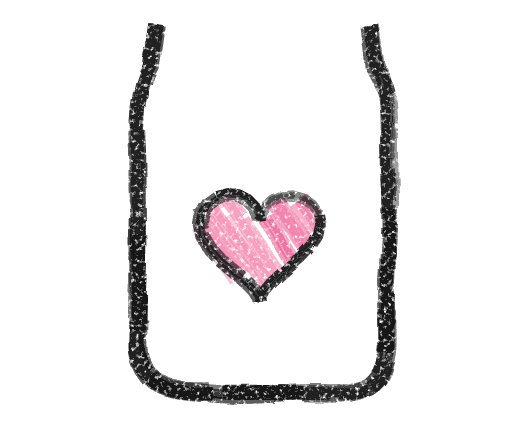
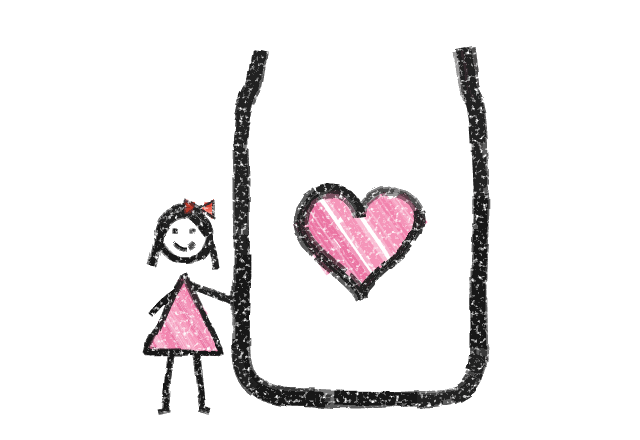
app: restore the step pictures, keep the jar beside the headline
How it works had swapped in other drawings. Bring back the earlier
ones: the girl beside her jar, relatives putting coins in, and the
girl grown up with a fuller jar. They fill each card at their own
proportions, inside the frame. make_art.py no longer draws step art,
so a re-run can't overwrite them.

On phones the header links were hidden with nothing in their place,
and the figure and jar dropped below the buttons, out of sight of the
headline. Add a Menu button that opens the same links, and keep the
headline and the figure and jar side by side at every width, scaled
down; the three longest role words shrink to fit their column.

Remove the row of role buttons under the hero.

Refs #24

Changed region(s): [[0.2154, 0.0295, 0.7692, 0.9455]]

diff --git a/app/landing/landing.css b/app/landing/landing.css
@@ -46,9 +46,9 @@ a { color: inherit; }
   0%, 55% { transform: translateX(-45%) rotate(-12deg) rotateY(0deg); }
   100% { transform: translateX(-45%) rotate(-12deg) rotateY(360deg); }
 }
-.nav nav { display: flex; gap: 1.4rem; font-weight: 500; font-size: .98rem; }
-.nav nav a { text-decoration: none; padding: .25rem 0; background: linear-gradient(var(--yellow), var(--yellow)) 0 100% / 0 .4em no-repeat; transition: background-size .2s; }
-.nav nav a:hover { background-size: 100% .4em; }
+.nav .nav-links { display: flex; gap: 1.4rem; font-weight: 500; font-size: .98rem; }
+.nav .nav-links a { text-decoration: none; padding: .25rem 0; background: linear-gradient(var(--yellow), var(--yellow)) 0 100% / 0 .4em no-repeat; transition: background-size .2s; }
+.nav .nav-links a:hover { background-size: 100% .4em; }
 
 /* ───────── hero ───────── */
 .hero { position: relative; max-width: var(--wrap); margin: 0 auto; padding: 1.5rem 1.25rem 3.5rem; display: grid; grid-template-columns: 1.05fr .95fr; gap: 1rem 2rem; align-items: center; }
@@ -92,11 +92,6 @@ h1 .role-word.is-in { opacity: 0; transform: translateY(.22em) rotate(2deg); tra
 @keyframes pop { 0% { transform: rotate(-12deg) scale(.7); opacity: .2; } 60% { transform: rotate(-3deg) scale(1.05); opacity: 1; } 100% { transform: rotate(-5deg) scale(1); } }
 .card-tag { position: absolute; left: 50%; bottom: -7%; transform: translateX(-50%) rotate(2deg); margin: 0; white-space: nowrap; font-family: var(--display); font-weight: 700; letter-spacing: -.01em; font-size: clamp(1rem, 2.2vw, 1.3rem); padding: .2em .7em .15em; background: url("assets/swatch-yellow.png") center / 100% 100% no-repeat; }
 
-/* little role picker (also the way to drive it with reduced motion) */
-.roles { grid-column: 1 / -1; list-style: none; margin: .5rem 0 0; padding: 0; display: flex; flex-wrap: wrap; justify-content: center; gap: .5rem .6rem; position: relative; z-index: 2; }
-.roles button { font: 500 .95rem/1 var(--body); background: #fff; color: var(--ink); border: 2px solid var(--ink); border-radius: 999px; padding: .5rem .9rem; cursor: pointer; transition: background .15s, transform .12s; }
-.roles button:hover { transform: translateY(-2px); }
-.roles button[aria-pressed="true"] { background: var(--ink); color: #fff; }
 
 /* confetti doodles */
 .doodle { position: absolute; z-index: 0; pointer-events: none; }
@@ -120,7 +115,7 @@ h1 .role-word.is-in { opacity: 0; transform: translateY(.22em) rotate(2deg); tra
 .step-2::before { border-image-source: url("assets/frame-3.png"); transform: rotate(1deg); }
 .step-3::before { border-image-source: url("assets/frame-2.png"); transform: rotate(-.8deg); }
 .step > * { position: relative; z-index: 1; }
-.step-art { width: 70%; margin: 0 auto .6rem; }
+.step-art { width: 100%; height: auto; margin: 0 0 .8rem; }
 .step h3 { font-family: var(--display); font-weight: 900; letter-spacing: -.025em; font-size: 1.45rem; line-height: 1.15; margin: 0 0 .5rem; }
 .step .num { display: inline-block; min-width: 1.5em; text-align: center; margin-right: .2em; background: url("assets/swatch-yellow.png") center / 100% 100% no-repeat; }
 .step p { margin: 0; }
@@ -177,22 +172,38 @@ h1 .role-word.is-in { opacity: 0; transform: translateY(.22em) rotate(2deg); tra
 .story-transcript summary { cursor: pointer; padding: 1rem 0; font-weight: 700; }
 .story-transcript ol { margin: 0 0 1rem; padding-left: 1.3rem; display: grid; gap: .55rem; }
 
+/* phone menu (shown below 900px, where the header links are hidden) */
+.menu { display: none; position: relative; }
+.menu summary { list-style: none; cursor: pointer; font: 700 .95rem/1 var(--body); padding: .7rem 1rem; border: 2px solid var(--ink); border-radius: 12px 14px 11px 15px / 14px 11px 15px 12px; background: #fff; box-shadow: 3px 3px 0 var(--lilac); -webkit-tap-highlight-color: transparent; }
+.menu summary::-webkit-details-marker { display: none; }
+.menu summary::after { content: ""; display: inline-block; width: .45rem; height: .45rem; margin-left: .5rem; border-right: 2px solid currentColor; border-bottom: 2px solid currentColor; transform: translateY(-.15rem) rotate(45deg); transition: transform .16s ease; }
+.menu[open] summary::after { transform: translateY(.05rem) rotate(-135deg); }
+.menu-panel { position: absolute; right: 0; top: calc(100% + .5rem); z-index: 40; display: grid; min-width: 14.5rem; padding: .4rem; background: #fff; border: 2px solid var(--ink); border-radius: 14px; box-shadow: 5px 5px 0 var(--orange); }
+.menu-panel a { display: block; padding: .75rem .8rem; border-radius: 9px; font-weight: 500; text-decoration: none; }
+.menu-panel a:hover, .menu-panel a:focus-visible { background: #f6f3ec; }
+.menu-panel a[aria-current="page"] { font-weight: 700; }
+
 /* ───────── small screens ───────── */
 @media (max-width: 900px) {
   .hero { grid-template-columns: 1fr; padding-top: .5rem; }
-  /* headline, pitch and buttons on the first screen, then the figure and jar */
+  /* The figure and jar stay beside the headline at every width, scaled down to fit:
+     kicker across the top, headline and stage side by side, then the pitch and buttons. */
+  .hero { grid-template-columns: minmax(0, 1.25fr) minmax(0, 1fr); column-gap: .75rem; }
   .hero-copy { display: contents; }
-  .kicker { order: 1; justify-self: start; }
-  h1 { order: 2; margin-bottom: .4rem; }
-  .lede { order: 3; margin-top: .6rem; }
-  .cta { order: 4; }
-  .testnet { order: 5; justify-self: start; }
-  .stage { order: 6; max-width: 400px; margin-top: 1.4rem; }
-  .roles { order: 7; }
-  .nav nav { display: none; }
+  .kicker { order: 1; grid-column: 1 / -1; justify-self: start; }
+  h1 { order: 2; grid-column: 1; margin: 0; font-size: clamp(1.9rem, calc((100vw - 52px) * .12), 4.4rem); }
+  /* the three longest words ("granddaughter", "little brother", "little sister") shrink to fit the column */
+  h1 .role-word.is-long { font-size: .7em; }
+  .stage { order: 3; grid-column: 2; max-width: none; margin: 0; }
+  .card-tag { font-size: clamp(.62rem, 2.6vw, 1rem); }
+  .lede { order: 4; grid-column: 1 / -1; margin-top: 1.2rem; }
+  .cta { order: 5; grid-column: 1 / -1; }
+  .testnet { order: 6; grid-column: 1 / -1; justify-self: start; }
+  .nav .nav-links { display: none; }
+  .menu { display: block; }
   .steps { grid-template-columns: 1fr; max-width: 460px; margin-inline: auto; }
   .trust-grid { grid-template-columns: 1fr; gap: 1.8rem; }
-  .d-star, .d-dots { display: none; }
+  .d-star, .d-dots, .d-heart { display: none; }
   .swatch-lilac { display: none; }
 }
 @media (max-width: 600px) {
@@ -211,7 +222,7 @@ h1 .role-word.is-in { opacity: 0; transform: translateY(.22em) rotate(2deg); tra
 
 @media (prefers-reduced-motion: reduce) {
   html { scroll-behavior: auto; }
-  h1 .role-word, .btn, .roles button, .pin { transition: none; }
+  h1 .role-word, .btn, .pin, .menu summary::after { transition: none; }
   .wordmark .j img { animation: none; }
   .card.is-popping { animation: none; }
 }

diff --git a/app/landing/index.html b/app/landing/index.html
@@ -36,13 +36,25 @@
       <!-- The README logo's wordmark: "sats jar" with the j dotted by a coin (a dotless j plus the coin). -->
       <span class="wordmark grainy" aria-hidden="true">sats <span class="j">&#x237;<img src="assets/coin-2.png" alt="" width="16" height="16"></span>ar</span>
     </a>
-    <nav aria-label="Main">
+    <nav class="nav-links" aria-label="Main">
       <a href="#how">How it works</a>
       <a href="#roadmap">Roadmap</a>
       <a href="story.html">The story</a>
       <a href="#trust">What you're trusting</a>
       <a href="#proof">Check it yourself</a>
     </nav>
+    <!-- Phones: the same links behind a Menu button (nav.js closes it after a pick) -->
+    <details class="menu" data-menu>
+      <summary>Menu</summary>
+      <nav class="menu-panel" aria-label="Main">
+        <a href="#how">How it works</a>
+        <a href="story.html">The story</a>
+        <a href="#roadmap">Roadmap</a>
+        <a href="#trust">What you're trusting</a>
+        <a href="#proof">Check it yourself</a>
+        <a href="https://app.satsjar.app/new">Make a jar</a>
+      </nav>
+    </details>
   </header>
 
   <main id="main">
@@ -101,7 +113,6 @@
         </div>
       </div>
 
-      <ul class="roles" data-roles aria-label="Who is the jar for?"></ul>
     </section>
 
     <!-- ───────────── How it works ───────────── -->
@@ -109,17 +120,17 @@
       <h2 class="grainy">How it works</h2>
       <ol class="steps">
         <li class="step step-1">
-          <img class="step-art" src="assets/step-1.png" alt="" width="260" height="220" loading="lazy">
+          <img class="step-art" src="assets/step-1.png" alt="" width="320" height="220" loading="lazy">
           <h3 class="grainy"><span class="num">1</span> Make a jar</h3>
           <p>Pick the beneficiary, how much they can get each period, and the day the jar becomes theirs. Name two or three guardians for emergencies.</p>
         </li>
         <li class="step step-2">
-          <img class="step-art" src="assets/step-2.png" alt="" width="260" height="220" loading="lazy">
+          <img class="step-art" src="assets/step-2.png" alt="" width="320" height="220" loading="lazy">
           <h3 class="grainy"><span class="num">2</span> Anyone can top it up</h3>
           <p>Every jar has its own Bitcoin address and QR code. Grandparents, aunties, friends: scan it from any Bitcoin wallet or exchange app.</p>
         </li>
         <li class="step step-3">
-          <img class="step-art" src="assets/step-3.png" alt="" width="260" height="220" loading="lazy">
+          <img class="step-art" src="assets/step-3.png" alt="" width="320" height="220" loading="lazy">
           <h3 class="grainy"><span class="num">3</span> A little at a time, then all of it</h3>
           <p>The beneficiary gets a capped allowance each period. On the unlock date the jar, and the Bitcoin in it, moves to the beneficiary's own account. Every adult's access ends there.</p>
         </li>
@@ -200,5 +211,6 @@
   </footer>
 
   <script src="landing.js" defer></script>
+  <script src="nav.js" defer></script>
 </body>
 </html>

diff --git a/app/landing/landing.js b/app/landing/landing.js
@@ -30,7 +30,6 @@
   var tagEl = document.querySelector("[data-card-tag]");
   var jarEl = document.querySelector("[data-jar]");
   var pileEl = document.querySelector("[data-pile]");
-  var rolesEl = document.querySelector("[data-roles]");
   if (!wordEl || !figureEl || !pileEl || !jarEl) return;
 
   var reduceMotion = window.matchMedia("(prefers-reduced-motion: reduce)").matches;
@@ -39,25 +38,12 @@
 
   var index = -1;
   var timer = null;
-  var buttons = [];
   var pending = [];
 
   // preload art so the first pop is not blank
   ROLES.forEach(function (r) { new Image().src = "assets/figure-" + r.slug + ".png"; });
   [1, 2, 3, 4].forEach(function (n) { new Image().src = "assets/frame-" + n + ".png"; new Image().src = "assets/patch-" + n + ".png"; });
   UNDERLINES.forEach(function (c) { new Image().src = "assets/underline-" + c + ".png"; });
-
-  // ── role picker ──
-  ROLES.forEach(function (role, i) {
-    var li = document.createElement("li");
-    var b = document.createElement("button");
-    b.type = "button";
-    b.textContent = role.word;
-    b.setAttribute("aria-pressed", "false");
-    li.appendChild(b);
-    rolesEl.appendChild(li);
-    buttons.push(b);
-  });
 
   function setLater(fn, ms) {
     var t = setTimeout(fn, ms);
@@ -74,10 +60,10 @@
     var role = ROLES[i];
     var c = i % 4;
     index = i;
-    buttons.forEach(function (b, k) { b.setAttribute("aria-pressed", String(k === i)); });
 
     function apply() {
       wordEl.textContent = role.word;
+      wordEl.classList.toggle("is-long", role.word.length > 9);
       underlineEl.src = "assets/underline-" + UNDERLINES[c] + ".png";
       figureEl.src = "assets/figure-" + role.slug + ".png";
       frameEl.src = "assets/frame-" + FRAME_FOR[c] + ".png";
@@ -154,8 +140,7 @@
   }
 
   // ── the loop: every step shows the next role and drops the next coin; once the jar is full it
-  //    holds a moment, empties, and starts over. Coins are counted separately from roles, so
-  //    picking a role by hand never leaves a coin floating. ──
+  //    holds a moment, empties, and starts over. ──
   var dropped = 0;
   var running = false;
 
@@ -184,7 +169,7 @@
 
   function start() {
     if (reduceMotion) {
-      // No autoplay: the whole pile stays in the jar, and the buttons pick the role.
+      // No autoplay: the whole pile stays in the jar and the headline says "loved one".
       showRole(ROLES.length - 1, false);
       return;
     }
@@ -194,15 +179,6 @@
     setLater(function () { dropCoin(0); dropped = 1; }, 700);
     setLater(step, STEP_MS + 700);
   }
-
-  // a manual pick pauses the rotation for a moment, then it carries on from there
-  buttons.forEach(function (b, i) {
-    b.addEventListener("click", function () {
-      clearPending();
-      showRole(i, true);
-      resumeAfter(STEP_MS * 1.6);
-    });
-  });
 
   // do not stack up drops while the tab is in the background
   document.addEventListener("visibilitychange", function () {

diff --git a/app/landing/story.html b/app/landing/story.html
@@ -38,11 +38,22 @@
       <img class="logo-mark" src="assets/logo-mark.png" alt="" width="44" height="44">
       <span class="wordmark grainy" aria-hidden="true">sats <span class="j">&#x237;<img src="assets/coin-2.png" alt="" width="16" height="16"></span>ar</span>
     </a>
-    <nav aria-label="Main">
+    <nav class="nav-links" aria-label="Main">
       <a href="/#how">How it works</a>
       <a href="/#roadmap">Roadmap</a>
       <a href="story.html" aria-current="page">The story</a>
     </nav>
+    <details class="menu" data-menu>
+      <summary>Menu</summary>
+      <nav class="menu-panel" aria-label="Main">
+        <a href="/#how">How it works</a>
+        <a href="story.html" aria-current="page">The story</a>
+        <a href="/#roadmap">Roadmap</a>
+        <a href="/#trust">What you're trusting</a>
+        <a href="/#proof">Check it yourself</a>
+        <a href="https://app.satsjar.app/new">Make a jar</a>
+      </nav>
+    </details>
   </header>
 
   <main id="main">
@@ -86,5 +97,6 @@
     <p class="testnet-note"><strong>This is a testnet demo.</strong> It runs on Bitcoin's test network. Test coins have no value, so please don't send real Bitcoin to a jar.</p>
     <p class="footer-links"><a href="https://github.com/koukikouks/sats-jar">Source on GitHub</a></p>
   </footer>
+  <script src="nav.js" defer></script>
 </body>
 </html>

diff --git a/app/landing/nav.js b/app/landing/nav.js
@@ -1,0 +1,18 @@
+// Phone menu: close it after a link is picked, on Escape, or on a tap outside it.
+(function () {
+  "use strict";
+  var menu = document.querySelector("[data-menu]");
+  if (!menu) return;
+  menu.addEventListener("click", function (e) {
+    if (e.target.closest("a")) menu.open = false;
+  });
+  document.addEventListener("keydown", function (e) {
+    if (e.key === "Escape" && menu.open) {
+      menu.open = false;
+      menu.querySelector("summary").focus();
+    }
+  });
+  document.addEventListener("click", function (e) {
+    if (menu.open && !menu.contains(e.target)) menu.open = false;
+  });
+})();

diff --git a/app/art-src/make_art.py b/app/art-src/make_art.py
@@ -323,27 +323,11 @@ for i, (nm, cols, ang) in enumerate([("lilac", LILAC, 30), ("yellow", YELLOW, -2
     seeded(340 + i)
     add(f"swatch-{nm}", 300, 120, hatch_poly([(8, 12), (292, 8), (294, 110), (6, 114)], rad(ang), 13, cols, 15), 90 + i)
 
-# ------------------------------------------------------------------ step doodles
-seeded(350)
-jar_small = brk_line(jar_pts(.42, 60, 6), INK, 7, 2, amp=1.2, dense=5, seg=(8, 16))
-jar_small += heart(130, 120, 30, PINK, 8)
-add("step-1", 260, 220, jar_small, 100)
-
-seeded(351)
-ph = rrect(30, 20, 120, 196, 14)
-s2 = brk_line(ph + [ph[0]], INK, 8, 2, amp=1.2, dense=5, seg=(8, 18))
-for (qx, qy) in [(48, 60), (78, 60), (48, 92), (96, 92), (66, 124), (92, 128)]:
-    s2 += hatch_poly([(qx, qy), (qx + 22, qy), (qx + 22, qy + 22), (qx, qy + 22)], rad(45), 5, INK, 6)
-s2 += brk_line(quad((130, 40), (190, 10), (214, 86), 16), BLUE, 6, 1, amp=.8, dense=4, seg=(8, 14))
-s2 += brk_line([(206, 74), (214, 88), (196, 86)], BLUE, 6, 1, amp=.4, dense=3, seg=(4, 8))
-add("step-2", 260, 220, s2 + f'<g transform="translate(150 98) scale(.62)">{coin_body(110)}</g>', 101)
-
-seeded(352)
-kid = fig_daughter()
-s3 = f'<g transform="translate(-6 20) scale(.55)">{kid}</g>'
-s3 += f'<g transform="translate(110 96) scale(.62)">{coin_body(111)}</g>'
-s3 += star(214, 46, 20, YELLOW, 7)
-add("step-3", 260, 220, s3, 102)
+# ------------------------------------------------------------------ step pictures
+# The How it works pictures (assets/step-1..3.png: the girl beside her jar, relatives putting coins
+# in, the girl grown up with a fuller jar) are the earlier drawings, kept as files. Their source is
+# the step section of video/story_art.py, the earlier copy of this script; this script no longer
+# draws them, so re-running it leaves them alone.
 
 # ------------------------------------------------------------------ pile layout for the jar (png px units)
 random.seed(42)

diff --git a/docs/design.md b/docs/design.md
@@ -52,7 +52,7 @@ Status colours the app needs and the landing doesn't have are drawn from this pa
 
 - **Primary button:** ink fill, white text, 3px ink border, wobbly radius `16px 20px 14px 22px / 20px 14px 22px 16px`, padding 1rem 1.5rem, hard offset shadow `5px 5px 0 orange`.
 - **Ghost button:** white fill, ink text, same border and radius, shadow `5px 5px 0 lilac`.
-- **Pill (role picker):** white, 2px ink border, fully round, DM Sans 500 .95rem; pressed = ink fill, white text.
+- **Pill (badges):** white, 2px ink border, fully round, DM Sans 500 .95rem.
 - **Testnet note:** a yellow blob dot with a 2px ink border, then muted text.
 - **Bullets:** blob dots (`border-radius: 50% 40% 55% 45%`), green or yellow, 2px ink border.
 - **Swatches and underlines:** crayon PNGs (`swatch-*.png`, `underline-*.png`) behind a word to highlight it.
